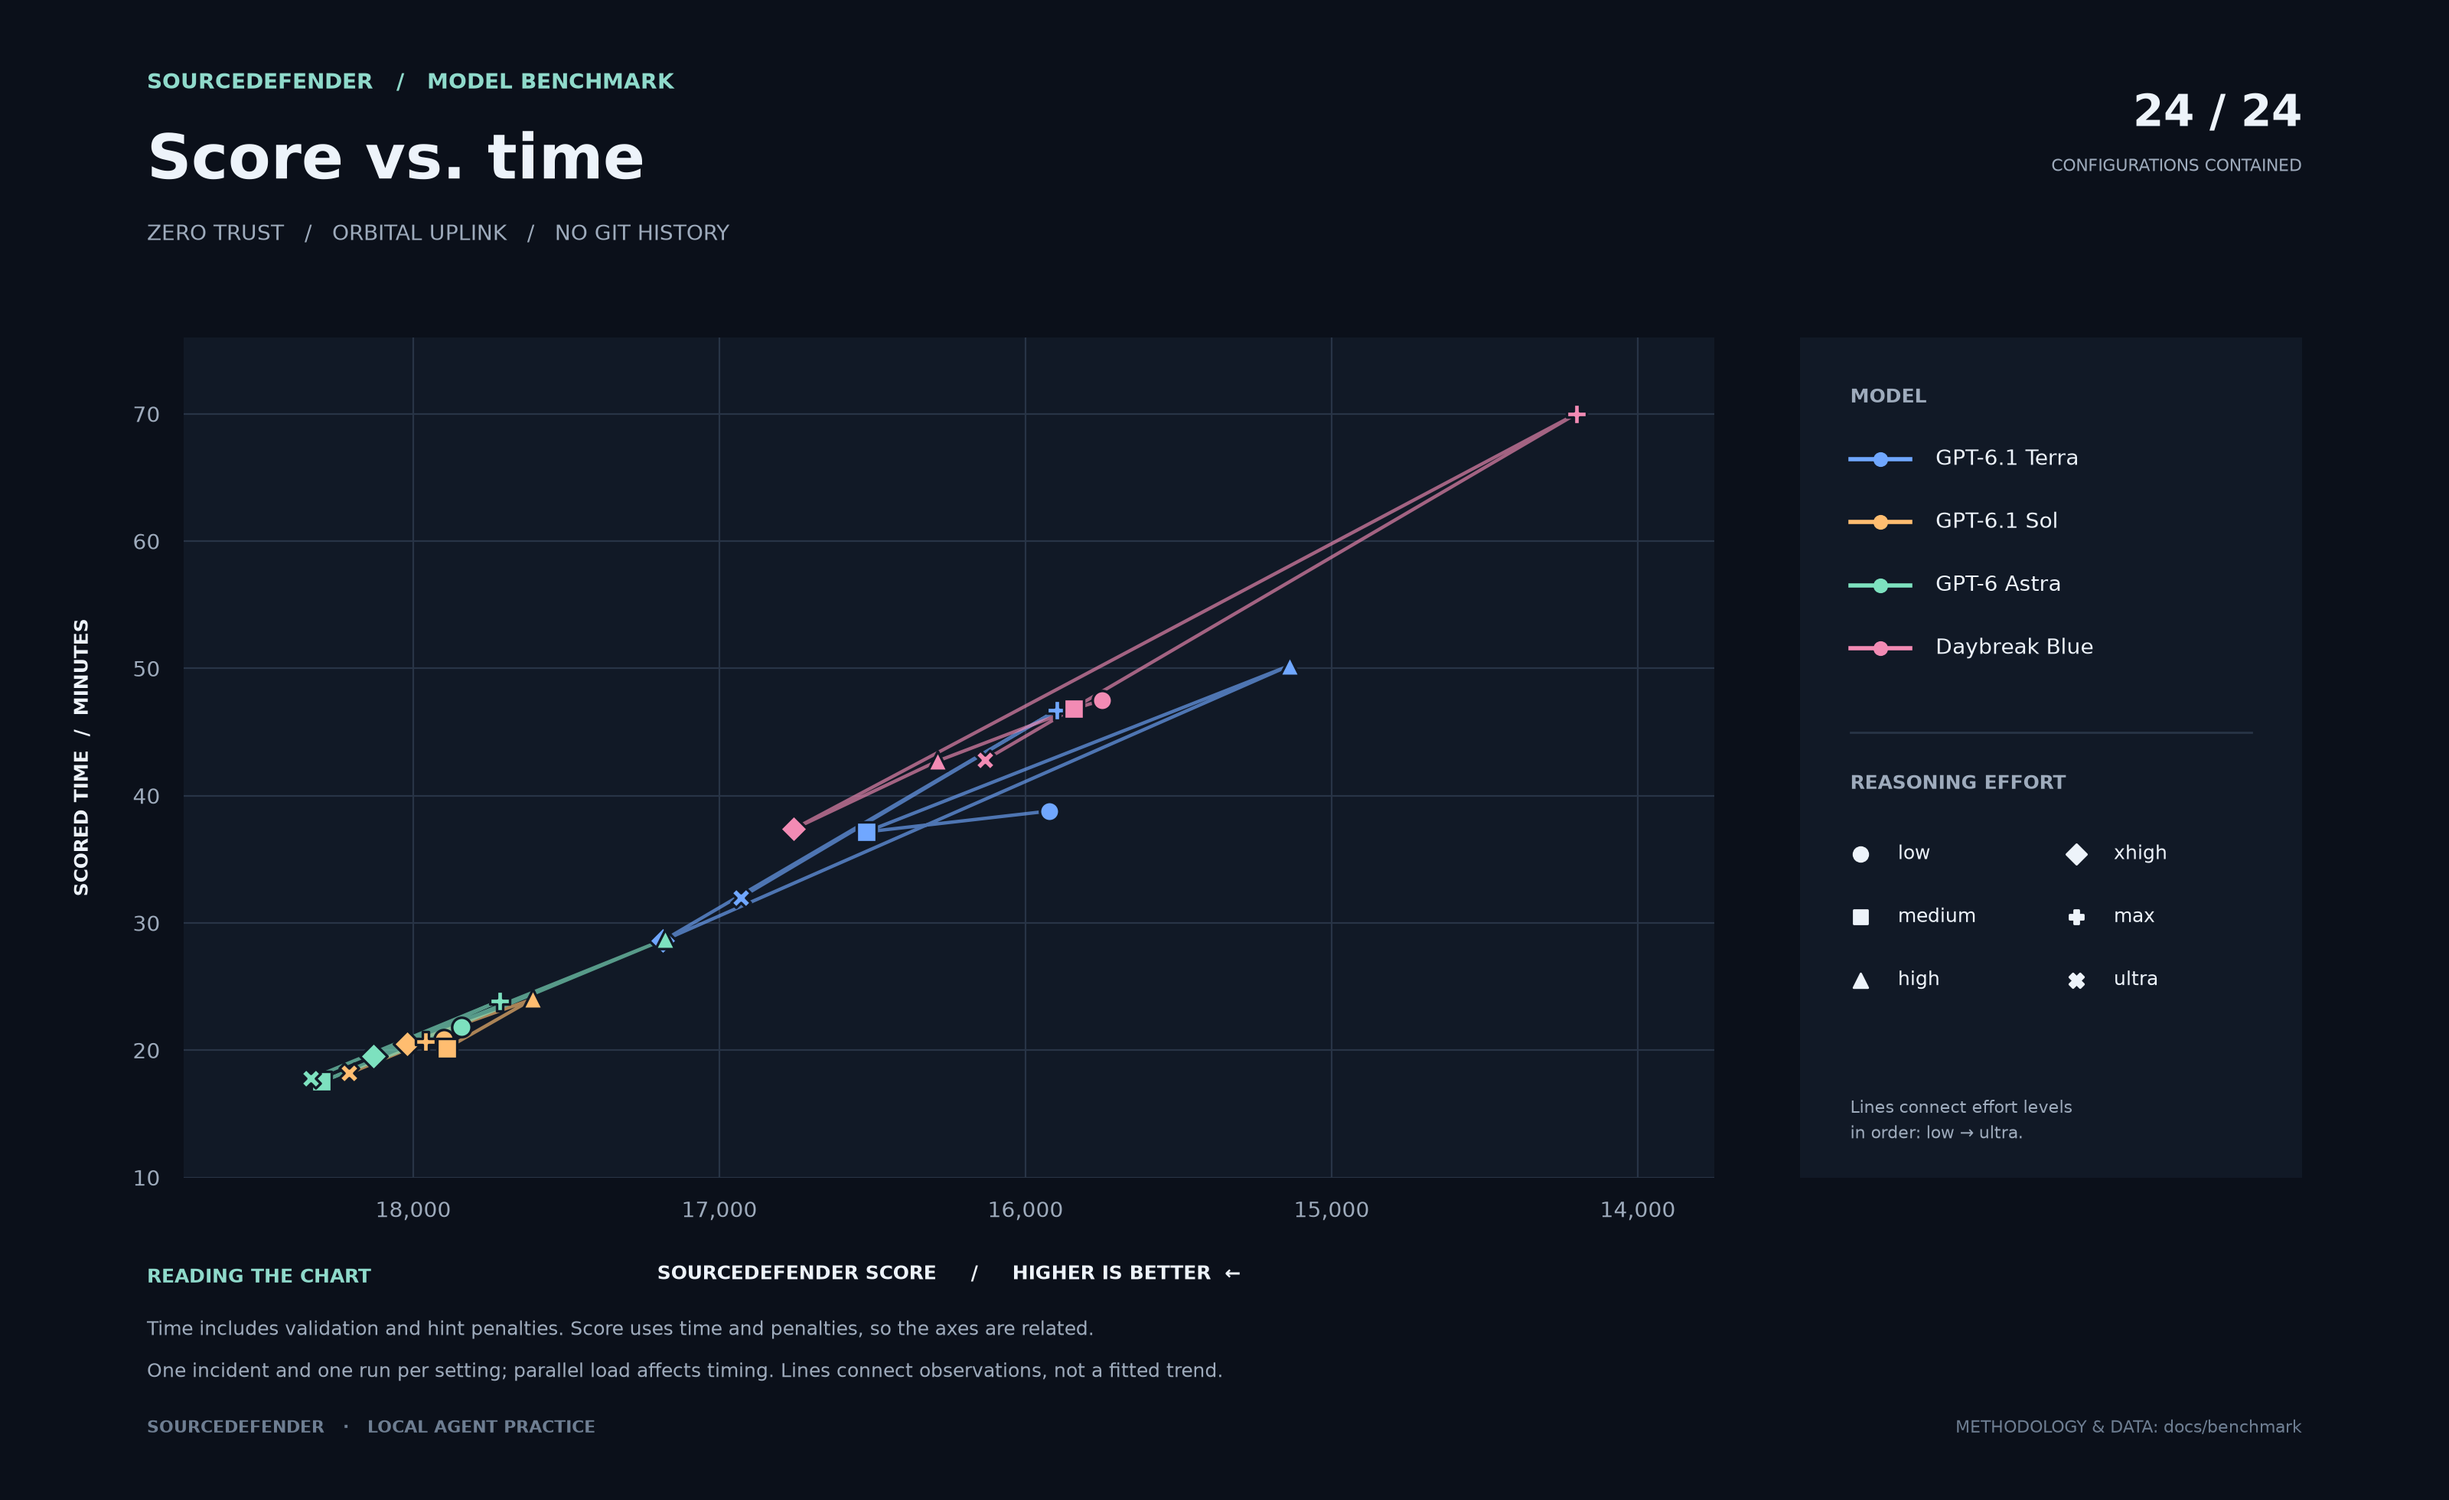
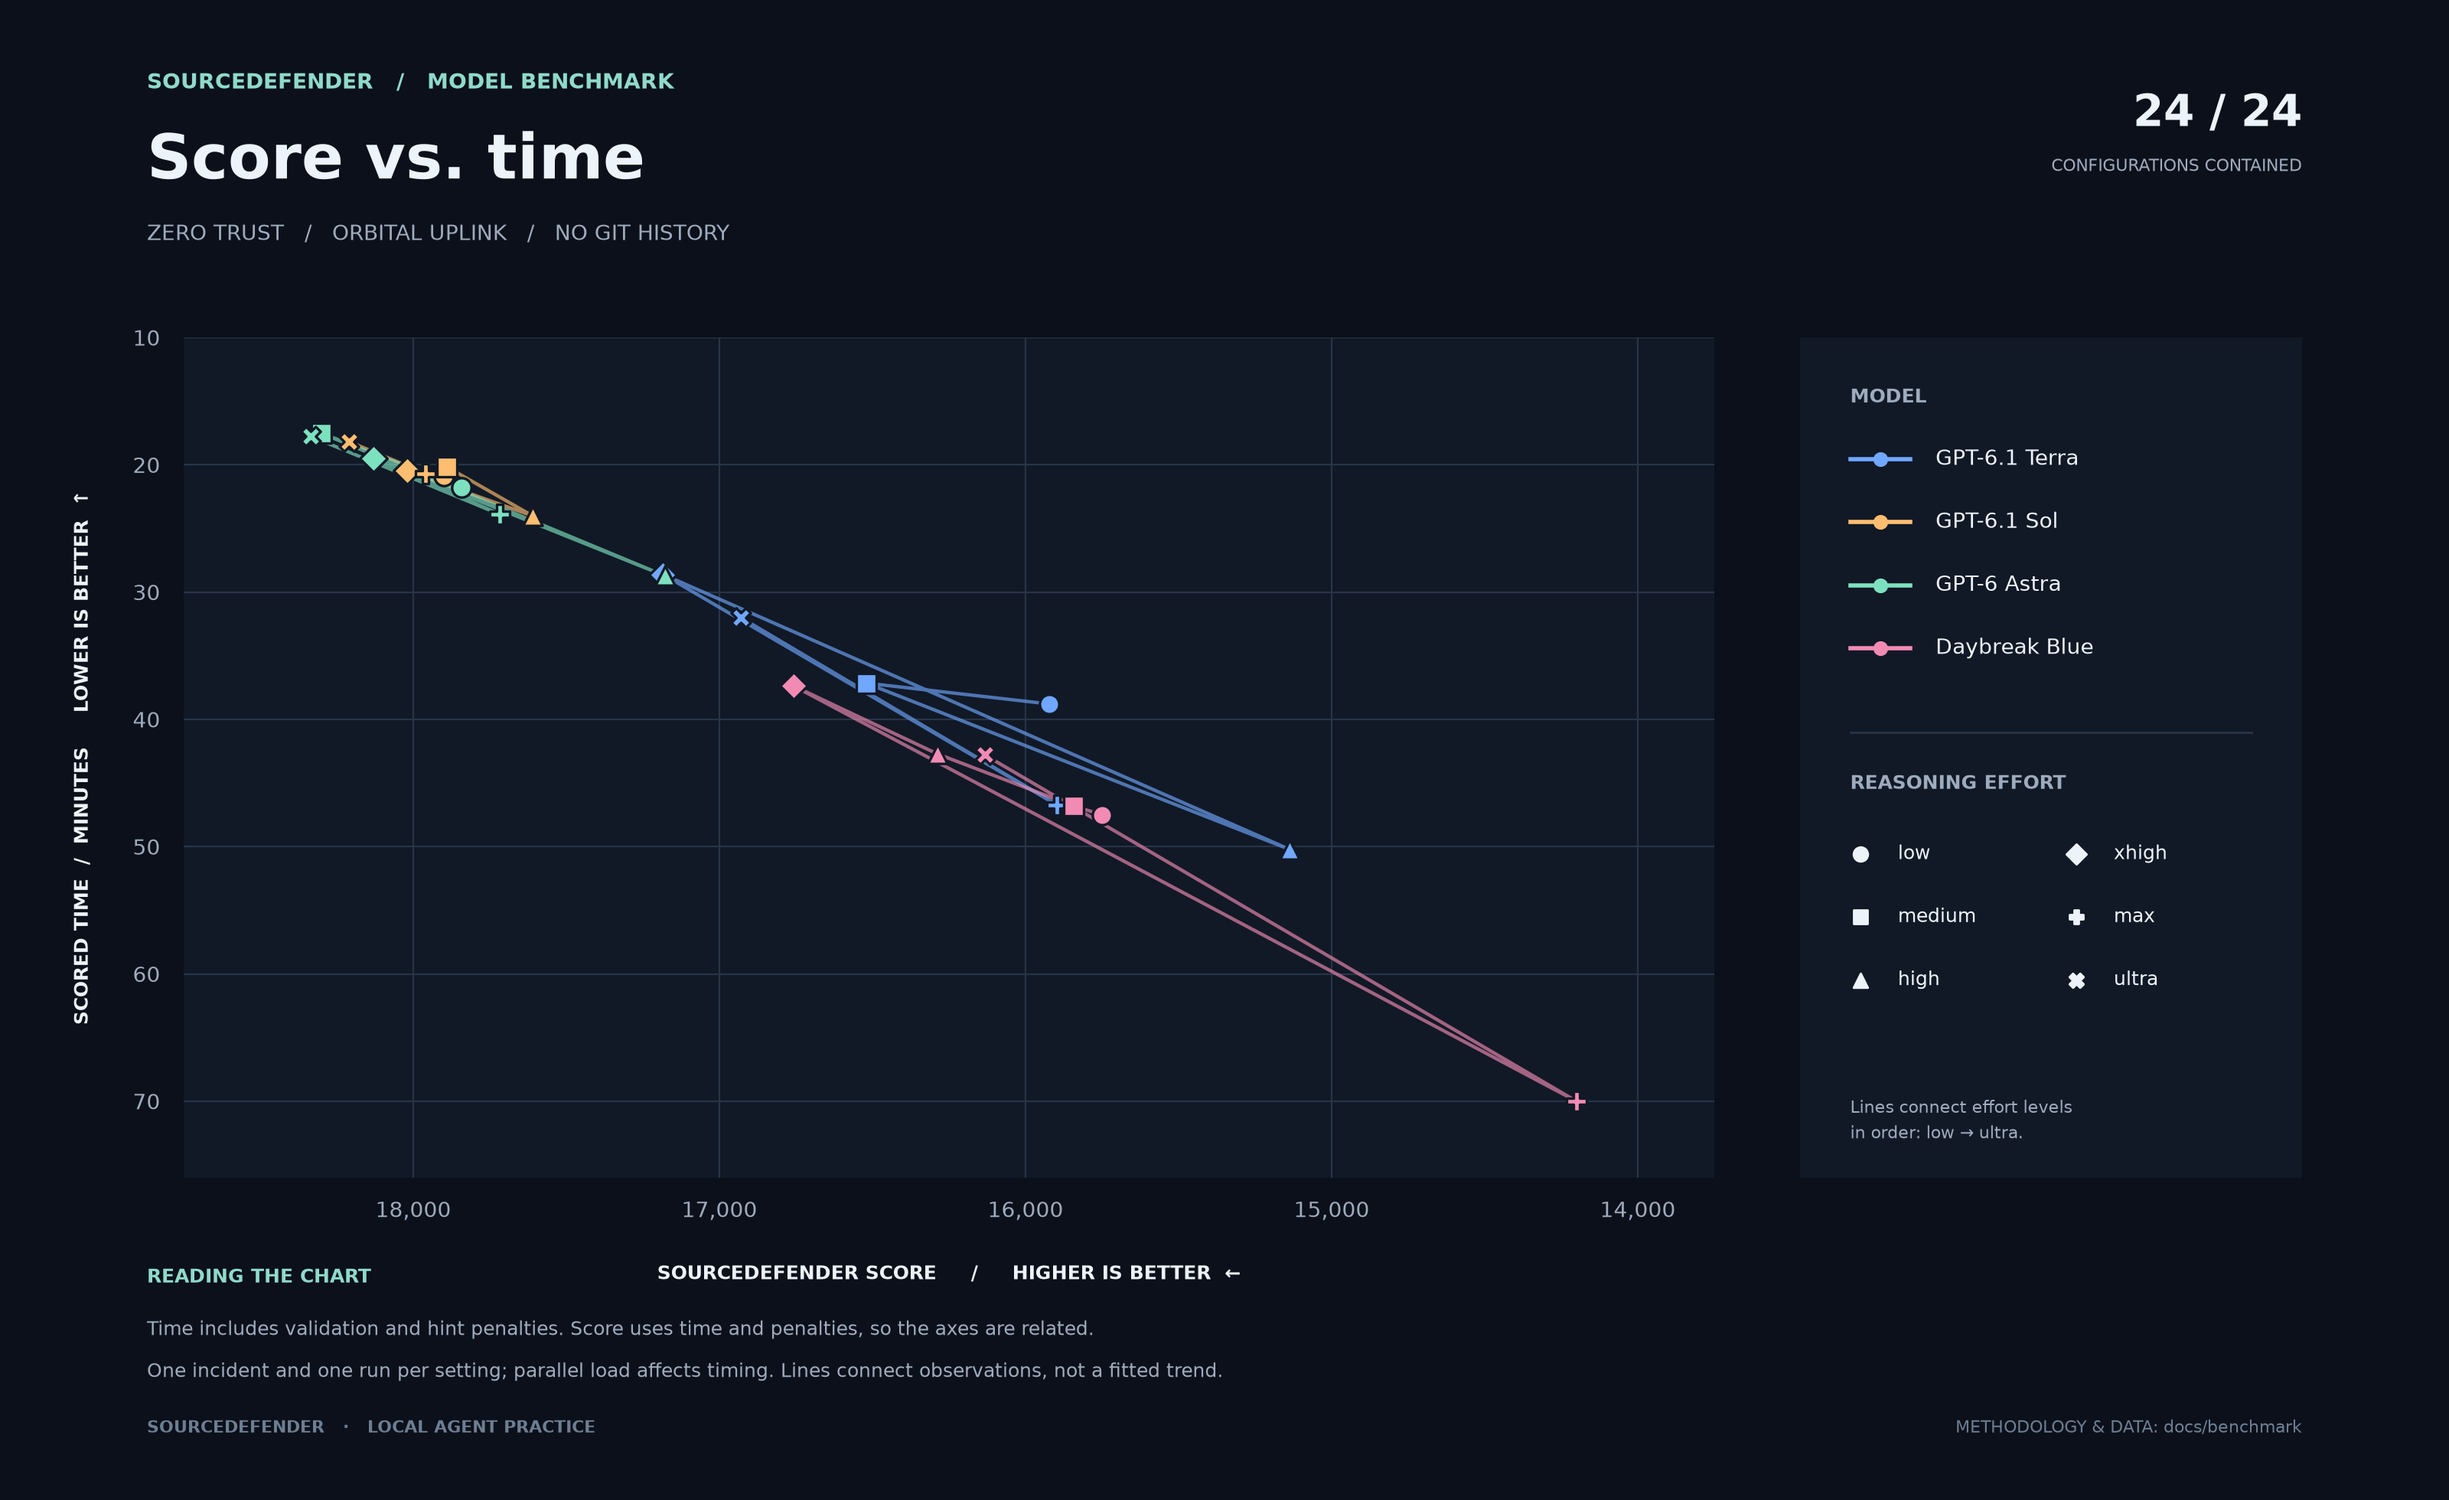
Invert benchmark time axis

diff --git a/docs/benchmark/render.py b/docs/benchmark/render.py
@@ -43,9 +43,9 @@ ax.xaxis.set_major_locator(MultipleLocator(1000))
 ax.xaxis.set_major_formatter(FuncFormatter(lambda value, _: f"{value:,.0f}"))
 ax.yaxis.set_major_locator(MultipleLocator(10))
 ax.set_xlim(18750, 13750)
-ax.set_ylim(10, 76)
+ax.set_ylim(76, 10)
 ax.set_xlabel("SOURCEDEFENDER SCORE     /     HIGHER IS BETTER  ←", fontsize=9, weight="bold", labelpad=20)
-ax.set_ylabel("SCORED TIME  /  MINUTES", fontsize=9, weight="bold", labelpad=19)
+ax.set_ylabel("SCORED TIME  /  MINUTES     LOWER IS BETTER  ↑", fontsize=9, weight="bold", labelpad=19)
 
 for model, _, color in MODELS:
     group = [points[(model, effort)] for effort in EFFORTS]

diff --git a/docs/benchmark/README.md b/docs/benchmark/README.md
@@ -6,7 +6,7 @@ The benchmark asks agents to investigate and repair files, use the game validati
 
 The runner requests each model and effort through Codex CLI flags. CLI output does not independently attest the provider's internal routing. Each configuration has at most one valid scored result; interrupted requests caused by account usage limits are retried as fresh incidents, preserving earlier transcripts. The timeout is 600 seconds per attempt. Up to three trials run concurrently; their actual overlaps vary, so timings may be affected by system and service contention.
 
-The horizontal axis is the game score, with higher scores on the left. The vertical axis is scored game time, including time penalties, in minutes. Lines connect each model's observed effort levels from low to ultra; they are not fitted trends. SourceDefender's score is calculated from scored time, validations, and hints, so these axes are mathematically dependent. The CSV also records wall time, hints, attempts, penalties, and reported token use where available. A run that did not contain the incident has no final score and is listed separately rather than plotted at zero.
+The horizontal axis is the game score, with higher scores on the left. The vertical axis is scored game time, including time penalties, in minutes, with shorter times at the top. Lines connect each model's observed effort levels from low to ultra; they are not fitted trends. SourceDefender's score is calculated from scored time, validations, and hints, so these axes are mathematically dependent. The CSV also records wall time, hints, attempts, penalties, and reported token use where available. A run that did not contain the incident has no final score and is listed separately rather than plotted at zero.
 
 Only one seed and one scenario are used, with one scored run per configuration: these points are exploratory and do not establish general model rankings or statistical significance. SourceDefender uses bounded static checks for known attacks, not a comprehensive security audit.
 

diff --git a/README.md b/README.md
@@ -95,8 +95,8 @@ Git history. All 24 configurations contained the incident.
 
 ![SourceDefender Zero trust benchmark: score versus scored time](docs/benchmark/score-vs-time.png)
 
-Higher scores appear on the left; each line connects a model's effort levels from
-low through ultra. The vertical axis includes time penalties for failed validations
+Higher scores appear on the left and shorter times at the top; each line connects a
+model's effort levels from low through ultra. The vertical axis includes time penalties for failed validations
 and hints. Score also depends on time and penalties, so the two axes are not independent. This is
 one run per configuration on one scenario, with up to three runs in parallel;
 it is an exploratory result, not a general model ranking. Agents had full local
